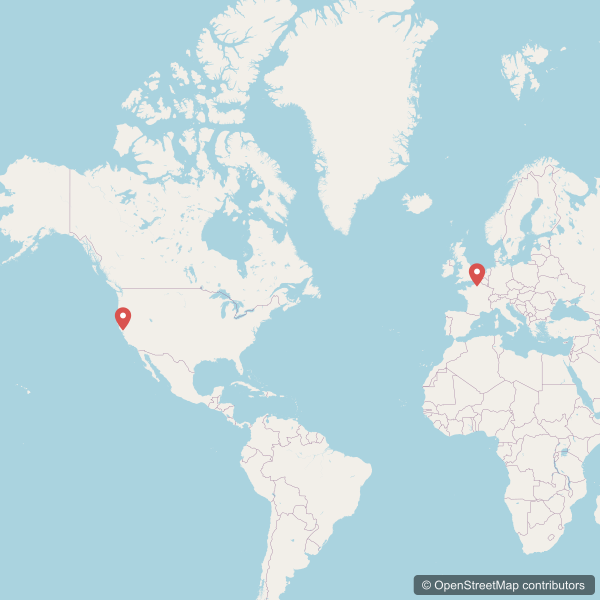
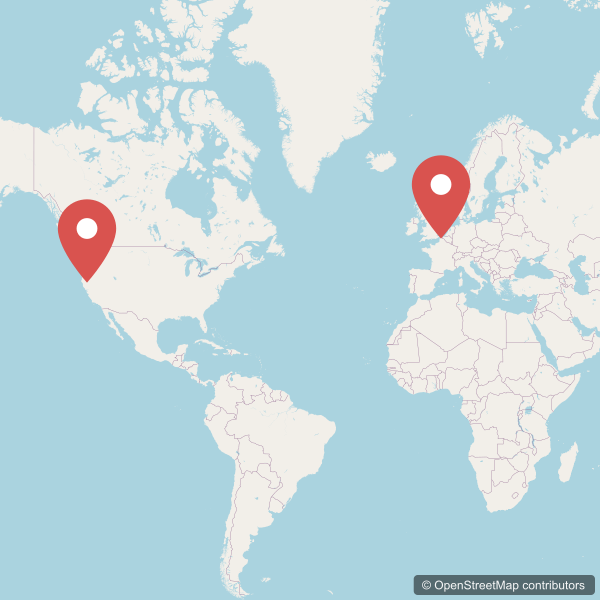
changed example marker size to 100

diff --git a/README.md b/README.md
@@ -283,7 +283,7 @@ markers=markerStyle|markerCoord1|markerCoord2|...
 **Example**: Two markers.
 
 ```
-http://localhost:3000/api/staticmaps?width=600&height=600&markers=48.8566,2.3522|37.7749,-122.4194
+http://localhost:3000/api/staticmaps?width=600&height=600&markers=width:100|height:100|48.8566,2.3522|37.7749,-122.4194
 ```
 
 ![Markers Example](https://raw.githubusercontent.com/dietrichmax/docker-staticmaps/refs/heads/main/examples/markers.png)
